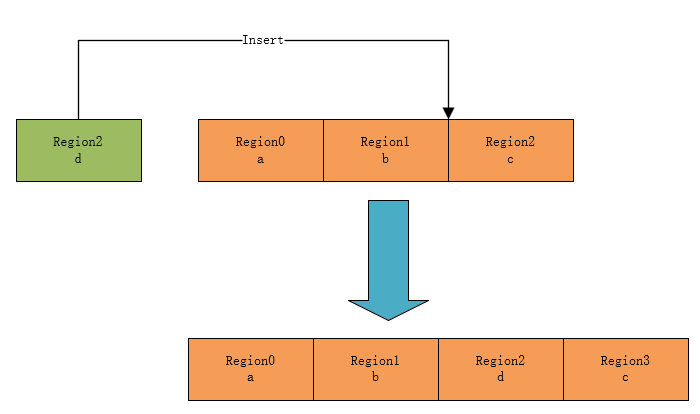
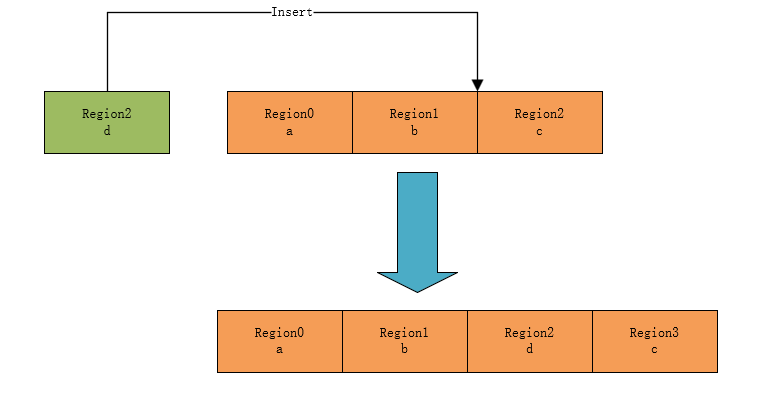
[update] doc

Changed region(s): [[0.0, 0.0, 0.99, 0.9722]]

diff --git a/stm32h750-artpi-h750/applications/mpu_port.c b/stm32h750-artpi-h750/applications/mpu_port.c
@@ -16,7 +16,7 @@
 #define RT_MPU_SRAM_SIZE                                (512UL * 1024)
 
 struct rt_mal_region regions[4] = {0};
-static int mpu_init(void)
+static int rt_hw_mpu_init(void)
 {
     regions[RT_MPU_FLASH_REGION].region = RT_MPU_FLASH_REGION;
     regions[RT_MPU_FLASH_REGION].addr = RT_MPU_FLASH_START_ADDR, 
@@ -60,8 +60,7 @@ static int mpu_init(void)
     
     return RT_EOK;
 }
-INIT_APP_EXPORT(mpu_init);
-
+INIT_APP_EXPORT(rt_hw_mpu_init);
 
 void MemManage_Handler(void)
 {
@@ -102,7 +101,7 @@ void MemManage_Handler(void)
    }
 
    fault_type = SCB->CFSR;            /* memory manage faults status */
-
+    
    rt_mpu_exception_handler(rt_thread_self(), (void *)fault_address, fault_type);
 
     while (1);

diff --git a/stm32h750-artpi-h750/rt-thread/components/mal/port/arm/arm_mal.c b/stm32h750-artpi-h750/rt-thread/components/mal/port/arm/arm_mal.c
@@ -48,7 +48,7 @@ static void _enable(void)
 /* disable mpu */
 static void _disable()
 {
-    ARM_MPU_Disable(); 
+    ARM_MPU_Disable();
 }
 
 static rt_uint32_t _rasr_value(int attribute, int size)

diff --git a/stm32h750-artpi-h750/rt-thread/components/mal/doc/mal_api.md b/stm32h750-artpi-h750/rt-thread/components/mal/doc/mal_api.md
@@ -1,6 +1,6 @@
 # MAL API 详解
 
-## 应用层用户调用的 API 
+## 应用层用户调用的 API
 
 ### MAL 表添加单条配置
 
@@ -16,7 +16,7 @@ rt_err_t rt_mpu_attach(rt_thread_t thread, void* addr, size_t size, rt_uint32_t 
 | addr       | 内存区域地址                                                 |
 | size       | 内存区域大小                                                 |
 | attribute  | 内存区域访问特性。包含读写权限、可缓冲、可缓存等             |
-| **返回值** |                                                              |
+| ** 返回值 ** |                                                              |
 | RT_EOK     | 添加 region 配置成功                                         |
 | OTHERS     | 添加 region 配置失败                                         |
 
@@ -36,7 +36,7 @@ rt_err_t rt_mpu_attach_table(rt_thread_t thread, struct mpu_regions *regions);
 | ---------- | ------------------------------------------------------------ |
 | thread     | 线程句柄。线程句柄由用户提供出来，并指向对应的线程控制块内存地址 |
 | regions    | 多个 region 区域配置块                                       |
-| **返回值** |                                                              |
+| ** 返回值 ** |                                                              |
 | RT_EOK     | 添加成功                                                     |
 | OTHERS     | 添加失败                                                     |
 
@@ -56,7 +56,7 @@ rt_err_t rt_mpu_delete(rt_thread_t thread, rt_uint8_t region);
 | ---------- | ------------------------------------------------------------ |
 | thread     | 线程句柄。线程句柄由用户提供出来，并指向对应的线程控制块内存地址 |
 | region     | 要删除的 region 编号                                         |
-| **返回值** |                                                              |
+| ** 返回值 ** |                                                              |
 | RT_EOK     | 添加成功                                                     |
 | OTHERS     | 添加失败                                                     |
 
@@ -80,13 +80,60 @@ rt_err_t rt_mpu_refresh(rt_thread_t thread, void *addr, size_t size, rt_uint32_t
 | size | 新的内存区域大小 |
 | attribute | 新的内存区域访问特性 |
 | region | 要更新的 region 编号 |
-| **返回值** |                                                              |
+| ** 返回值 ** |                                                              |
 | RT_EOK     | 添加成功                                                     |
 | OTHERS     | 添加失败                                                     |
 
 更新线程 thread 的 region 配置表中 region2 区域的配置信息，实现方法如下图 ：
 
 ![](figures/refresh.png)
+
+### MAL 表插入
+
+用户在 mpu 配置表中插入某条配置，如果原位置有 region 配置，原位置及以后的配置自动向后移动：
+
+```c
+rt_err_t rt_mpu_insert(rt_thread_t thread, void *addr, size_t size, rt_uint32_t attribute, rt_uint8_t region);
+```
+
+| 参数         | 描述                                                         |
+| ------------ | ------------------------------------------------------------ |
+| thread       | 线程句柄。线程句柄由用户提供出来，并指向对应的线程控制块内存地址 |
+| addr         | 内存区域地址                                                 |
+| size         | 内存区域大小                                                 |
+| attribute    | 内存区域访问特性                                             |
+| region       | 要插入的 region 编号                                         |
+| ** 返回值 ** |                                                              |
+| RT_EOK       | 添加成功                                                     |
+| OTHERS       | 添加失败                                                     |
+
+实现方法如下图 ：
+
+![](figures/insert.png)
+
+### 获取 MAL 信息
+
+通过使用该接口，可以获取 MAL 配置表信息：
+
+```c
+rt_err_t rt_mpu_get_info(rt_thread_t thread, rt_uint32_t type, void *arg);
+```
+
+| 参数         | 描述                                                         |
+| ------------ | ------------------------------------------------------------ |
+| thread       | 线程句柄。线程句柄由用户提供出来，并指向对应的线程控制块内存地址 |
+| type         | 信息类型                                                     |
+| arg          | 存放信息地址                                                 |
+| ** 返回值 ** |                                                              |
+| RT_EOK       | 查询成功                                                     |
+| OTHERS       | 查询失败                                                     |
+
+type 的取值定义如下表所示：
+
+| 参数                    | 描述                                  |
+| ----------------------- | ------------------------------------- |
+| GET_MPU_REGIONS_NUMBER  | 获取当前线程 MAL 已配置的 region 数目 |
+| GET_MPU_REGIONS_CONFGIG | 获取当前线程 MAL 所有 region 配置     |
 
 ### 添加线程保护区域
 
@@ -102,7 +149,7 @@ rt_err_t rt_mpu_enable_protect_area(rt_thread_t thread, void *addr, size_t size,
 | addr       | 内存区域地址                                                 |
 | size       | 内存区域大小                                                 |
 | attribute  | 内存区域访问特性                                             |
-| **返回值** |                                                              |
+| ** 返回值 ** |                                                              |
 | RT_EOK     | 添加成功                                                     |
 | OTHERS     | 添加失败                                                     |
 
@@ -118,21 +165,37 @@ rt_err_t rt_mpu_disable_protect_area(rt_thread_t thread, rt_uint8_t region)
 | ---------- | ------------------------------------------------------------ |
 | thread     | 线程句柄。线程句柄由用户提供出来，并指向对应的线程控制块内存地址 |
 | region     | 要删除的 region 编号                                         |
-| **返回值** |                                                              |
+| ** 返回值 ** |                                                              |
 | RT_EOK     | 添加成功                                                     |
 | OTHERS     | 添加失败                                                     |
 
-## 架构移植调用的 API 
+## 架构移植调用的 API
 
 ### MAL OPS 注册
+
+对于不同的架构，如：arm、riscv、mips；需要实现不同的 ops。
 
 ```c
 rt_err_t rt_mpu_ops_register(struct rt_mpu_ops *ops);
 ```
 
-## BSP 移植调用的 API 
+目前 mal ops 需要实现以下接口：
+
+```c
+struct rt_mpu_ops
+{
+   rt_err_t (*init) (struct rt_mal_region *regions); /* 初始化函数 */
+   void (*switch_table) (rt_thread_t thread, rt_uint8_t mpu_protect_area_num, struct mpu_protect_regions* mpu_protect_areas);
+   /* 表切换函数 */
+   rt_err_t (*get_info) (rt_thread_t thread, rt_uint32_t type, void *arg); /* 获取配置信息 */
+};
+```
+
+## BSP 移植调用的 API
 
 ### MAL 组件初始化
+
+使用 mal 组件前，需要对 mal 组件初始化：
 
 ```c
 rt_err_t rt_mpu_init(struct rt_mal_region *tables);
@@ -140,7 +203,14 @@ rt_err_t rt_mpu_init(struct rt_mal_region *tables);
 
 ### MAL 异常回调
 
+mal 异常处理接口：
+
 ```c
 void rt_mpu_exception_handler(rt_thread_t thread, void* addr, rt_uint32_t attribute);
 ```
 
+| 参数      | 描述                                                         |
+| --------- | ------------------------------------------------------------ |
+| thread    | 线程句柄。线程句柄由用户提供出来，并指向对应的线程控制块内存地址 |
+| addr      | 异常访问内存地址                                             |
+| attribute | 异常访问错误类型                                             |

diff --git a/stm32h750-artpi-h750/rt-thread/components/mal/doc/mal_port.md b/stm32h750-artpi-h750/rt-thread/components/mal/doc/mal_port.md
@@ -10,9 +10,9 @@
 struct rt_mpu_ops
 {
    rt_err_t (*init) (struct rt_mal_region *regions);
-   void (*switch_table) (rt_thread_t thread, 
-   					   rt_uint8_t mpu_protect_area_num, 
-                         struct mpu_protect_regions* mpu_protect_areas);
+   void (*switch_table) (rt_thread_t thread,
+                        rt_uint8_t mpu_protect_area_num,
+                        struct mpu_protect_regions* mpu_protect_areas);
    rt_err_t (*get_info) (rt_thread_t thread, rt_uint32_t type, void *arg);
 };
 ```
@@ -50,11 +50,11 @@ switch_to_thread
     CMP     r3,  #0                 ; if(flag_r3 != 0)
     BICNE   lr, lr, #0x10           ; lr &= ~(1 << 4), set FPCA.
     ENDIF
-		
+
     PUSH    {r0-r3, r12, lr}
     LDR     r1, =rt_current_thread
     LDR     r0, [r1]
-    BL      rt_mpu_table_switch     ; switch mpu table 
+    BL      rt_mpu_table_switch     ; switch mpu table
     POP     {r0-r3, r12, lr}
 ```
 
@@ -68,7 +68,7 @@ static rt_err_t _mpu_init(struct rt_mal_region *tables)
     ...
 }
 
-static void _mpu_switch_table(rt_thread_t thread, 
+static void _mpu_switch_table(rt_thread_t thread,
                                     rt_uint8_t mpu_protect_area_num,
                                     struct mpu_protect_regions* mpu_protect_areas)
 {
@@ -101,7 +101,7 @@ static int rt_mpu_arm_register(void)
     result = rt_mpu_ops_register(&_mpu_ops);
     if (result != RT_EOK)
     {
-        LOG_E(" arm mal ops register failed");
+        LOG_E("arm mal ops register failed");
     }
 
     return result;
@@ -138,42 +138,42 @@ INIT_BOARD_EXPORT(rt_mpu_arm_register);  /* 自动初始化 */
 static void mpu_init(void)
 {
     static struct rt_mal_region regions[4] = {0};
-    
+
     /* Flash region configuration */
     regions[RT_MPU_FLASH_REGION].region = RT_MPU_FLASH_REGION;
-    regions[RT_MPU_FLASH_REGION].addr = RT_MPU_FLASH_START_ADDR, 
+    regions[RT_MPU_FLASH_REGION].addr = RT_MPU_FLASH_START_ADDR,
     regions[RT_MPU_FLASH_REGION].size = RT_MPU_FLASH_SIZE;
-    regions[RT_MPU_FLASH_REGION].attribute = rt_mpu_region_attribute(RT_MPU_REGION_RO, 
-                                                                     RT_MPU_REGION_EXECUTE_ENABLE, 
-                                                                     RT_MPU_REGION_SHAREABLE_ENABLE,       
+    regions[RT_MPU_FLASH_REGION].attribute = rt_mpu_region_attribute(RT_MPU_REGION_RO,
+                                                                     RT_MPU_REGION_EXECUTE_ENABLE,
+                                                                     RT_MPU_REGION_SHAREABLE_ENABLE,
                                                                      RT_MPU_REGION_CACHEABLE_ENABLE,
                                                                      RT_MPU_REGION_BUFFERABLE_ENABLE,
                                                                      RT_MPU_REGION_TEX_DISABLE,
                                                                      0);
 	/* internal sram region configuration */
     regions[RT_MPU_INTERNAL_SRAM_REGION].region = RT_MPU_INTERNAL_SRAM_REGION;
-    regions[RT_MPU_INTERNAL_SRAM_REGION].addr = RT_MPU_SRAM_START_ADDR, 
+    regions[RT_MPU_INTERNAL_SRAM_REGION].addr = RT_MPU_SRAM_START_ADDR,
     regions[RT_MPU_INTERNAL_SRAM_REGION].size = RT_MPU_SRAM_SIZE;
-    regions[RT_MPU_INTERNAL_SRAM_REGION].attribute = rt_mpu_region_attribute(RT_MPU_REGION_PRIVILEGED_RW, 
-                                                                     RT_MPU_REGION_EXECUTE_ENABLE, 
-                                                                     RT_MPU_REGION_SHAREABLE_ENABLE,       
+    regions[RT_MPU_INTERNAL_SRAM_REGION].attribute = rt_mpu_region_attribute(RT_MPU_REGION_PRIVILEGED_RW,
+                                                                     RT_MPU_REGION_EXECUTE_ENABLE,
+                                                                     RT_MPU_REGION_SHAREABLE_ENABLE,
                                                                      RT_MPU_REGION_CACHEABLE_ENABLE,
                                                                      RT_MPU_REGION_BUFFERABLE_ENABLE,
                                                                      RT_MPU_REGION_TEX_DISABLE,
                                                                      0);
 	/* external sram region configuration */
     regions[RT_MPU_EXTERNAL_SRAM_REGION].region = RT_MPU_EXTERNAL_SRAM_REGION;
-    regions[RT_MPU_EXTERNAL_SRAM_REGION].addr = 0, 
+    regions[RT_MPU_EXTERNAL_SRAM_REGION].addr = 0,
     regions[RT_MPU_EXTERNAL_SRAM_REGION].size = 0;
-    regions[RT_MPU_EXTERNAL_SRAM_REGION].attribute = 0;  
+    regions[RT_MPU_EXTERNAL_SRAM_REGION].attribute = 0;
 
     /* propherals region configuration */
     regions[RT_MPU_PRIPHERALS_REGION].region = RT_MPU_PRIPHERALS_REGION;
-    regions[RT_MPU_PRIPHERALS_REGION].addr = RT_MPU_PERIPHERALS_START_ADDRESS, 
+    regions[RT_MPU_PRIPHERALS_REGION].addr = RT_MPU_PERIPHERALS_START_ADDRESS,
     regions[RT_MPU_PRIPHERALS_REGION].size = RT_MPU_PERIPHERALS_SIZE;
-    regions[RT_MPU_PRIPHERALS_REGION].attribute = rt_mpu_region_attribute(RT_MPU_REGION_PRIVILEGED_RW, 
-                                                                     RT_MPU_REGION_EXECUTE_ENABLE, 
-                                                                     RT_MPU_REGION_SHAREABLE_ENABLE,       
+    regions[RT_MPU_PRIPHERALS_REGION].attribute = rt_mpu_region_attribute(RT_MPU_REGION_PRIVILEGED_RW,
+                                                                     RT_MPU_REGION_EXECUTE_ENABLE,
+                                                                     RT_MPU_REGION_SHAREABLE_ENABLE,
                                                                      RT_MPU_REGION_CACHEABLE_ENABLE,
                                                                      RT_MPU_REGION_BUFFERABLE_ENABLE,
                                                                      RT_MPU_REGION_TEX_DISABLE,
@@ -191,43 +191,43 @@ static void mpu_init(void)
  void MemManage_Handler(void)
  {
      rt_uint32_t fault_address, fault_type;
- 
+
      fault_address = SCB->MMFAR; /* memory manage faults address */
      rt_kprintf("mem manage fault:\n");
-     rt_kprintf("SCB_CFSR_MFSR:0x%02X ", SCB->CFSR);
- 
+     rt_kprintf("SCB_CFSR_MFSR:0x%02X", SCB->CFSR);
+
      if (SCB->CFSR & (1<<0))
      {
          /* [0]:IACCVIOL */
-         rt_kprintf("IACCVIOL ");
+         rt_kprintf("IACCVIOL");
      }
- 
+
      if (SCB->CFSR & (1<<1))
      {
          /* [1]:DACCVIOL */
-         rt_kprintf("DACCVIOL ");
+         rt_kprintf("DACCVIOL");
      }
- 
+
      if (SCB->CFSR & (1<<3))
      {
          /* [3]:MUNSTKERR */
-         rt_kprintf("MUNSTKERR ");
+         rt_kprintf("MUNSTKERR");
      }
- 
+
      if (SCB->CFSR & (1<<4))
      {
          /* [4]:MSTKERR */
-         rt_kprintf("MSTKERR ");
+         rt_kprintf("MSTKERR");
      }
- 
+
      if (SCB->CFSR & (1<<7))
      {
          /* [7]:MMARVALID */
          rt_kprintf("SCB->MMAR:%08X\n", SCB->MMFAR);
      }
- 
+
      fault_type = SCB->CFSR;            /* memory manage faults status */
- 
+
      rt_mpu_exception_handler(rt_thread_self(), (void *)fault_address, fault_type);
  }
  ```
